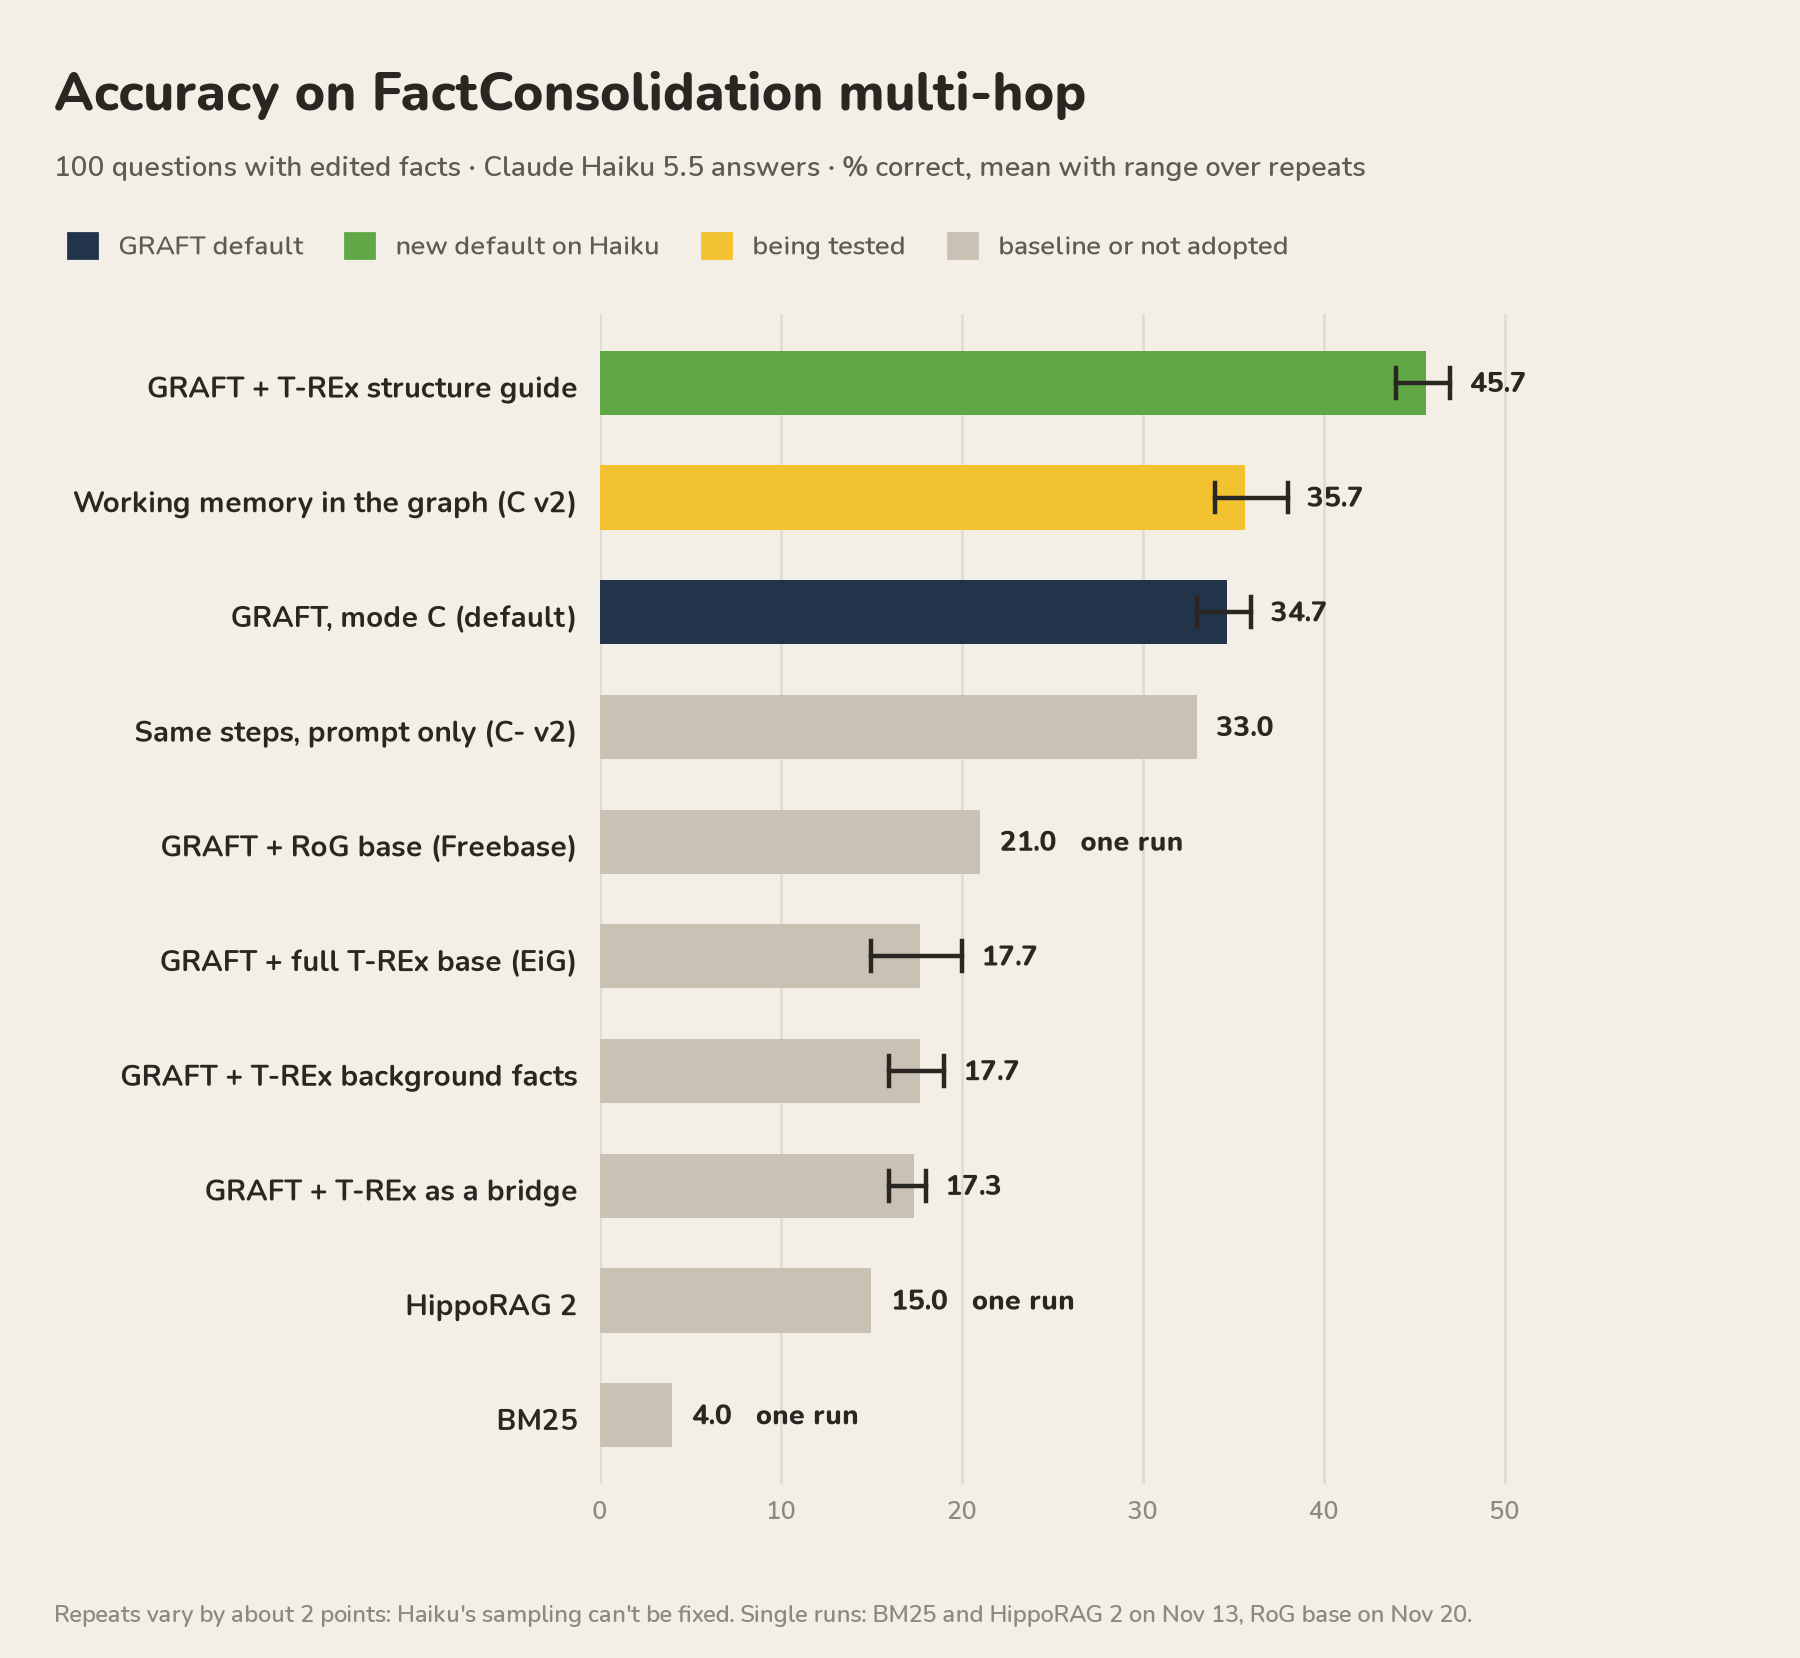
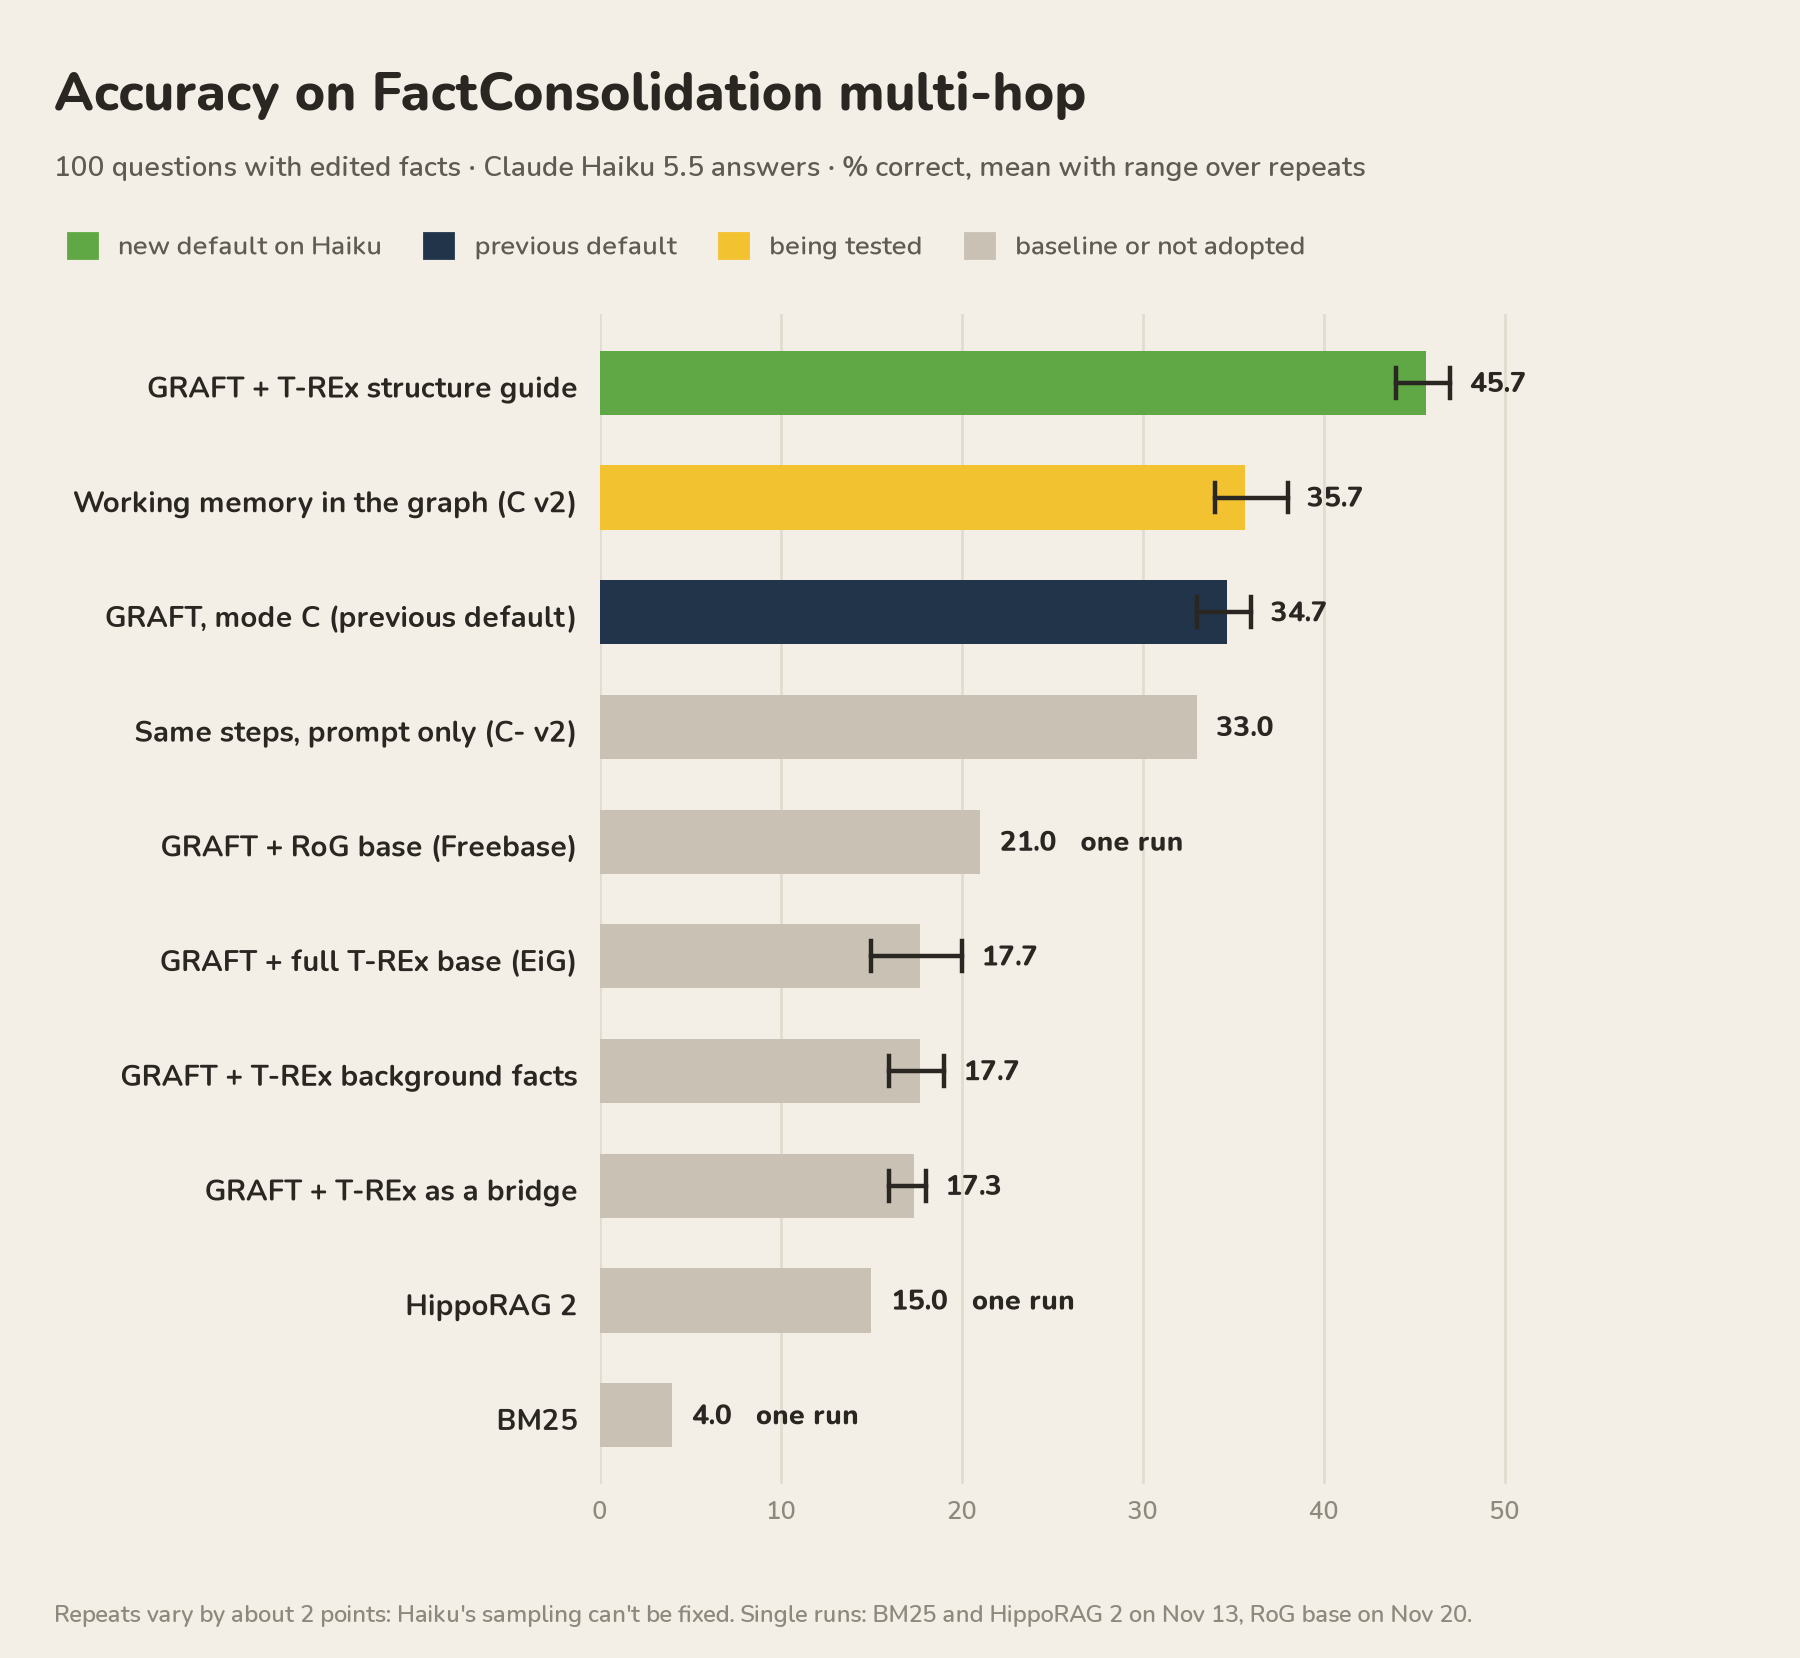
RoG gold 41 (paid run; 42 was the free check); mode C labelled previous default now that the T-REx guide is kept; figures rebuilt

Changed region(s): [[0.0311, 0.123, 0.7156, 0.1538], [0.1244, 0.3691, 0.2489, 0.3999], [0.0622, 0.3691, 0.0933, 0.3999]]

diff --git a/docs/design/theme/results_chart.py b/docs/design/theme/results_chart.py
@@ -20,7 +20,7 @@ TABLES = {"01": EXP / "test-01-read-order" / "table.csv", "03": EXP / "test-03-b
 ROWS = [
     ("GRAFT + T-REx structure guide", T.GREEN, [("06", {"arm": "B"})]),
     ("Working memory in the graph (C v2)", T.YELLOW, [("05", {"arm": "C v2"})]),
-    ("GRAFT, mode C (default)", T.NAVY, [("05", {"arm": "A"})]),
+    ("GRAFT, mode C (previous default)", T.NAVY, [("05", {"arm": "A"})]),
     ("Same steps, prompt only (C- v2)", T.STONE, [("05", {"arm": "C- v2"})]),
     ("GRAFT + RoG base (Freebase)", T.STONE, [("03", {"kind": "paid"})]),
     ("GRAFT + full T-REx base (EiG)", T.STONE, [("04", {"run": "run-02", "pass": "EiG"})]),
@@ -81,7 +81,7 @@ def main():
     T.bar_chart(T.ROOT / "assets" / "results.png", "Accuracy on FactConsolidation multi-hop",
                 "100 questions with edited facts · " + ("" if qwen else "Claude Haiku 5.5 answers · ")
                 + "% correct, mean with range over repeats",
-                panels, legend=[T.NAVY, (T.GREEN, "new default on Haiku"), T.YELLOW, T.STONE],
+                panels, legend=[(T.GREEN, "new default on Haiku"), (T.NAVY, "previous default"), T.YELLOW, T.STONE],
                 footnote="Repeats vary by about 2 points: Haiku's sampling can't be fixed. "
                          "Single runs: BM25 and HippoRAG 2 on Nov 13, RoG base on Nov 20.")
 

diff --git a/experiments/test-03-base-graph-rog/README.md b/experiments/test-03-base-graph-rog/README.md
@@ -14,7 +14,7 @@ Does a base knowledge graph under the documents (GRAFT layer 1) help, starting w
 
 ## Result
 
-Haiku matched 21.9% of document names to a base entity (13.3% by exact name); 79% of document facts touch a base entity, almost all through hubs (USA, football, Catholicism). Gold in final facts 42%, accuracy 21% (one real run) vs mode C 38%.
+Haiku matched 21.9% of document names to a base entity (13.3% by exact name); 79% of document facts touch a base entity, almost all through hubs (USA, football, Catholicism). Gold in final facts 42% in the free check and 41% in the paid run; accuracy 21% (one real run, 2026-11-20) vs mode C 38% (one run, 2026-11-13; 34.7 over 6 repeats a week later, see test 07).
 
 ## Decision
 

diff --git a/README.md b/README.md
@@ -46,9 +46,9 @@ GRAFT is built in three layers, like grafting branches onto a tree:
 |---|---:|---:|---:|
 | Working memory in the graph (C v2) | 35.7 (34–38) | 3 | 45 |
 | **GRAFT + T-REx structure guide** | **45.7** (44–47) | 3 | 60 |
-| GRAFT, mode C | 34.7 (33–36) | 6 | 51 |
+| GRAFT, mode C (previous default) | 34.7 (33–36) | 6 | 51 |
 | Same steps, prompt only (C- v2) | 33.0 | 3 | 41 |
-| GRAFT + RoG base (Freebase) | 21 | 1 | 42 |
+| GRAFT + RoG base (Freebase) | 21 | 1 | 41 |
 | GRAFT + full T-REx base (EiG) | 17.7 (15–20) | 3 | 33 |
 | GRAFT + T-REx as background facts | 17.7 (16–19) | 3 | 33 |
 | GRAFT + T-REx as a walk-only bridge | 17.3 (16–18) | 3 | 32 |
